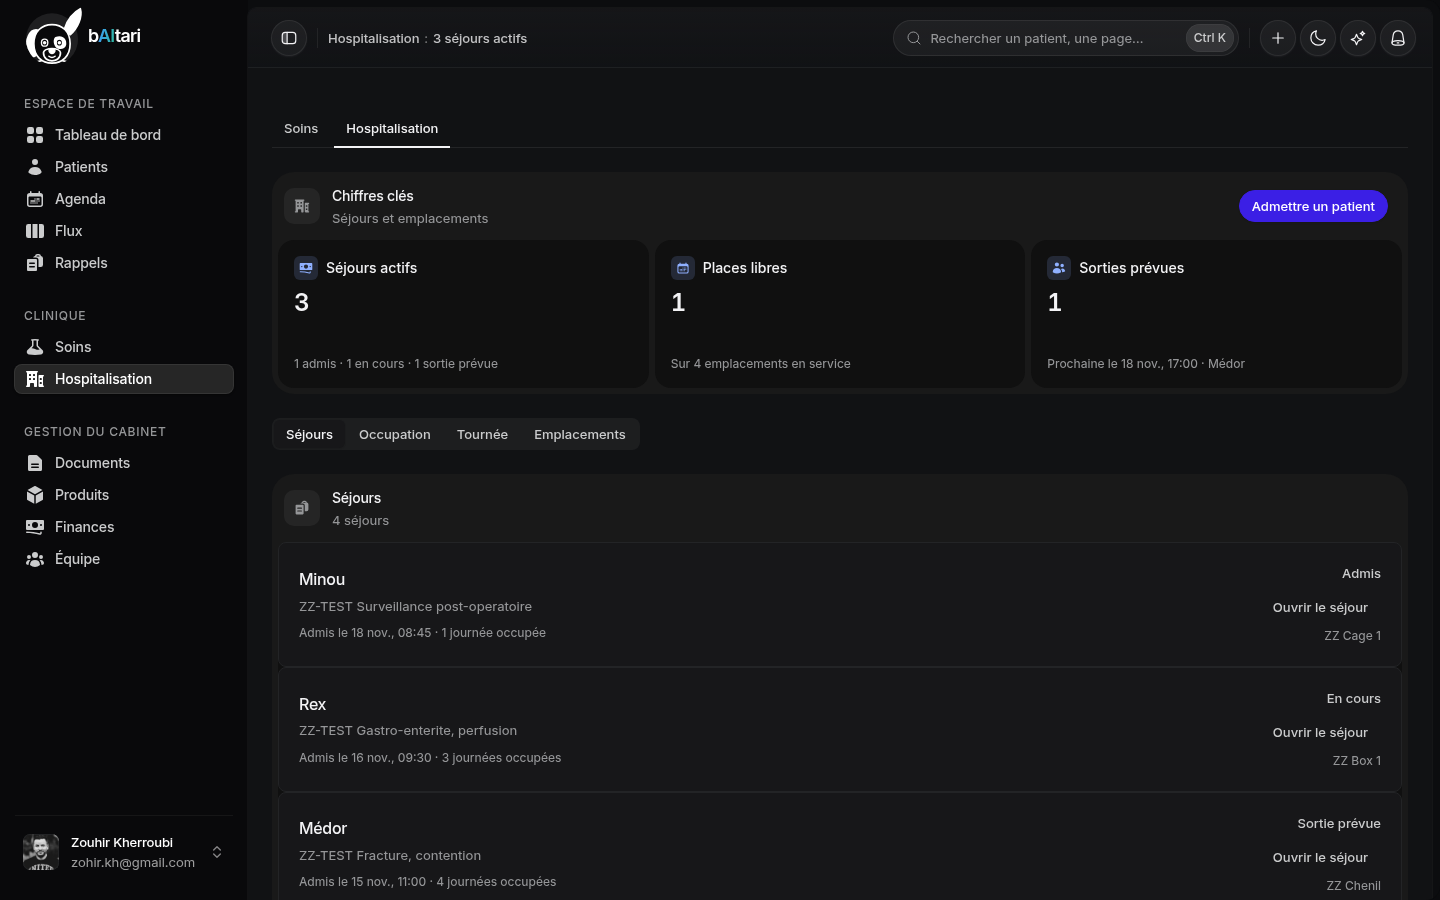
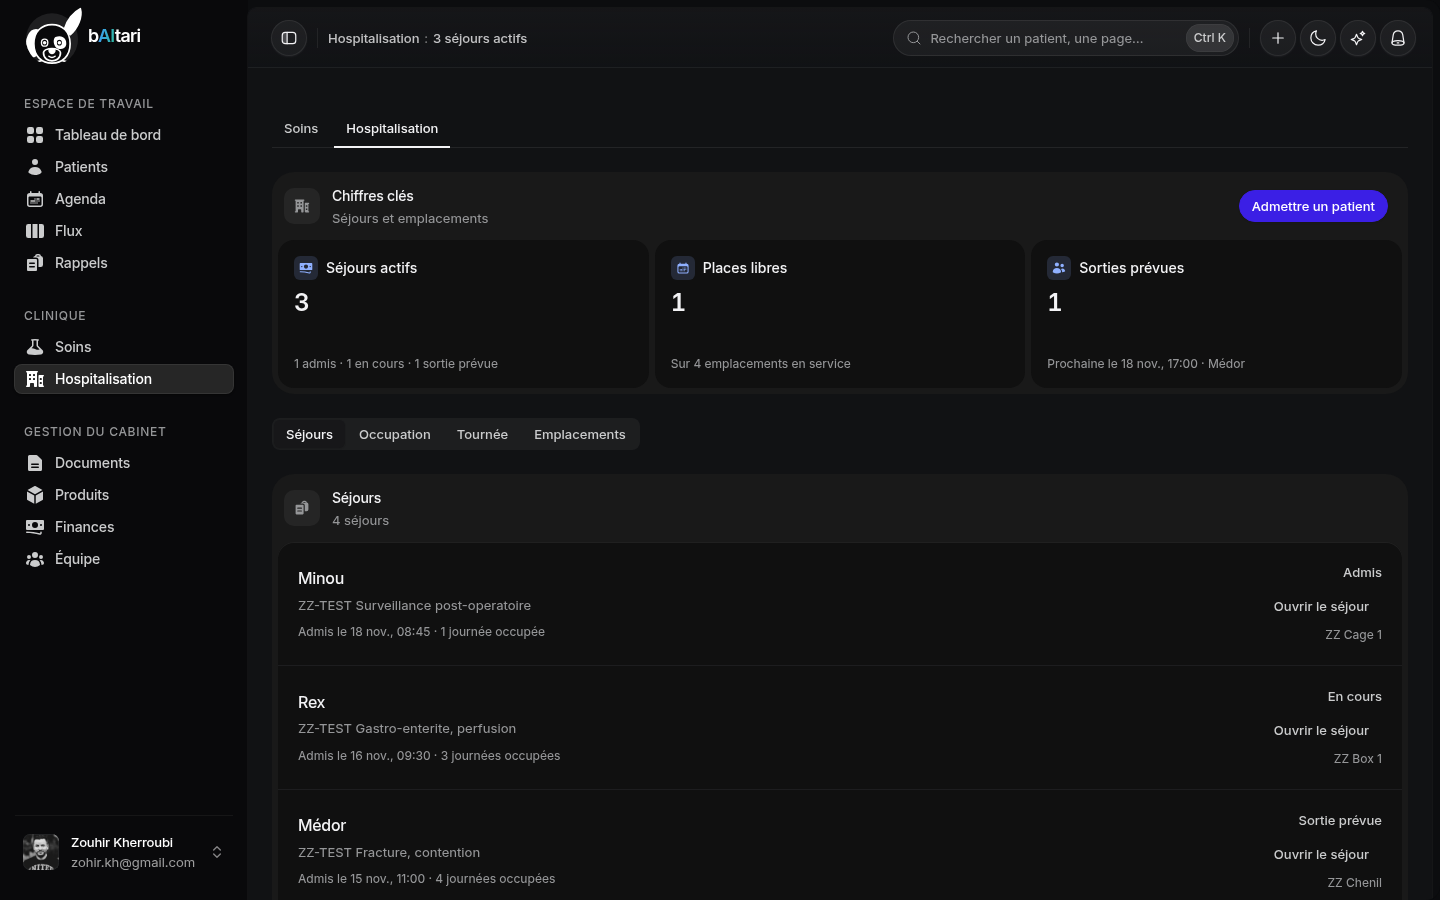
design(hospitalisation): retrait des cadres a trait de l'ancienne interface, bilan
Les regles Clean de premium-workspace.css qui encadraient d'un trait les cartes
de sejour et d'emplacement et chaque bloc du detail sont retirees : la vue est
en bandes grises et panneaux. Controles identiques avant/apres dans toutes les
vues et etats ; bilan, captures et outils du banc.

diff --git a/src/design-system/premium-workspace.css b/src/design-system/premium-workspace.css
@@ -300,32 +300,8 @@
     border-color: var(--line-strong) !important;
   }
 }
-:root[data-skin="clean"] :is(.stay-summary-card, .stay-location-card) {
-  padding: 20px !important;
-  border: 1px solid var(--line) !important;
-  border-radius: 8px !important;
-  background: var(--surface) !important;
-  box-shadow: none !important;
-}
-:root[data-skin="clean"] .stay-location-card > div:first-child {
-  padding-bottom: 16px;
-  box-shadow: var(--hair-b);
-}
-
-:root[data-skin="clean"] .stay-detail > :is(header, section) {
-  padding: 20px !important;
-  border: 1px solid var(--line) !important;
-  border-radius: 8px !important;
-  background: var(--surface) !important;
-}
-:root[data-skin="clean"] .stay-detail > header { background: var(--band) !important; }
-:root[data-skin="clean"] .stay-detail > section > :is(h3, div:first-child:has(h3)) {
-  margin: -20px -20px 20px;
-  padding: 16px 20px;
-  border-radius: 8px 8px 0 0;
-  background: var(--band);
-  box-shadow: var(--hair-b);
-}
+/* Hospitalisation : les cadres a trait de l ancienne interface (cartes de sejour et d emplacement, blocs du detail)
+   sont retires le 19 novembre ; la vue est en bandes grises et panneaux (stay-section.tsx). */
 @media (max-width: 639px) {
   :root[data-skin="clean"] .care-toolbar-controls { margin-left: 0; width: 100%; }
   :root[data-skin="clean"] .care-task-row { flex-wrap: wrap; }
@@ -336,12 +312,6 @@
   background: var(--band);
   box-shadow: var(--hair-t), var(--hair-b);
   margin-bottom: 0;
-}
-:root[data-skin="clean"] .stay-location-card > div:first-child {
-  margin: -20px -20px 0;
-  padding: 16px 20px;
-  background: var(--band);
-  border-radius: 8px 8px 0 0;
 }
 
 /* Selected consultation: keep the complete record in the same ruled frame. */

diff --git a/docs/recus/2026-11-19/hospitalisation/outils/sejours-essai.py b/docs/recus/2026-11-19/hospitalisation/outils/sejours-essai.py
@@ -1,0 +1,25 @@
+"""Fait une COPIE de la base du banc (jamais la vraie) avec des emplacements et des sejours ZZ-TEST pour regarder
+Hospitalisation avec du contenu. Heures de Paris, horloge du banc le 18 novembre 2026.
+Usage : python3 -I sejours-essai.py <base-test.db> <base-hospi.db>"""
+import shutil, sqlite3, sys
+src, dst = sys.argv[1], sys.argv[2]
+shutil.copyfile(src, dst)
+c = sqlite3.connect(dst)
+assert c.execute("select count(*) from stays").fetchone()[0] == 0, "la copie a deja des sejours"
+now = "2026-11-18T09:00:00.000Z"
+L = [("zz-l1", "ZZ Box 1", "box", "Chien"), ("zz-l2", "ZZ Box 2", "box", None), ("zz-l3", "ZZ Cage 1", "cage", "Chat"), ("zz-l4", "ZZ Chenil", "chenil", "Chien")]
+for i, n, t, s in L:
+    c.execute("insert into locations(id,name,type,species,active,note,created_at,updated_at) values(?,?,?,?,1,'',?,?)", (i, n, t, s, now, now))
+S = [  # id, patient, emplacement, statut, admis, sortie prevue, sorti, motif
+    ("zz-s1", "zz-p3", "zz-l1", "en_cours", "2026-11-16T08:30:00.000Z", None, None, "ZZ-TEST Gastro-enterite, perfusion"),
+    ("zz-s2", "zz-p4", "zz-l3", "admis", "2026-11-18T07:45:00.000Z", None, None, "ZZ-TEST Surveillance post-operatoire"),
+    ("zz-s3", "zz-p2", "zz-l4", "sortie_prevue", "2026-11-15T10:00:00.000Z", "2026-11-18T16:00:00.000Z", None, "ZZ-TEST Fracture, contention"),
+    ("zz-s4", "zz-p1", None, "sorti", "2026-11-10T09:00:00.000Z", None, "2026-11-12T11:00:00.000Z", "ZZ-TEST Deshydratation"),
+]
+for i, p, l, st, a, pd, d, r in S:
+    c.execute("insert into stays(id,patient_id,location_id,status,admitted_at,planned_discharge_at,discharged_at,reason,discharge_summary,author_id,created_at,updated_at) values(?,?,?,?,?,?,?,?,?,'zz-banc',?,?)", (i, p, l, st, a, pd, d, r, 'ZZ-TEST Rentre a la maison, bon etat' if st == 'sorti' else '', now, now))
+for k, (t, hr, rr, w) in enumerate([(39.4, 120, 28, 24.1), (39.0, 112, 26, 24.0), (38.6, 104, 24, 24.2)]):
+    c.execute("insert into vital_signs(id,stay_id,recorded_at,temperature_c,heart_rate,respiratory_rate,weight_kg,general_state,appetite,note,author_id,created_at,updated_at) values(?,?,?,?,?,?,?,'stable','faible','ZZ-TEST','zz-banc',?,?)",
+              (f"zz-v{k}", "zz-s1", f"2026-11-1{6+k}T09:00:00.000Z", t, hr, rr, w, now, now))
+c.commit()
+print(c.execute("select count(*) from stays").fetchone()[0], "sejours,", c.execute("select count(*) from locations").fetchone()[0], "emplacements")

diff --git a/docs/recus/2026-11-19/hospitalisation/BILAN.md b/docs/recus/2026-11-19/hospitalisation/BILAN.md
@@ -1,0 +1,70 @@
+# Hospitalisation au standard des autres vues, 19 novembre 2026
+
+**La branche :** `chantier/lot-hospitalisation-widgets-2026-11-19`, dans `~/work/lot-wt`, partie de master `0226fdc`.
+- Commits locaux, rien n'est poussé, fusionné ni tagué.
+- La partie « premières rangées de widgets » du lot a son propre bilan (`../premieres-rangees/`).
+
+**La demande :** Hospitalisation, dernière vue restée sur l'ancienne interface, passe au standard actuel. **C'est de la présentation seulement.**
+
+## 1. Avant
+
+Captures dans `hospi-avant/`, en clair et en sombre, pour les quatre vues et le détail d'un séjour.
+- **Cartes et blocs :** des cadres blancs cerclés d'un trait (`border-[#F2F2F2]`, plus des règles Clean dans `premium-workspace.css` qui ajoutaient une bordure de 1 px et des filets sous les en-têtes).
+- **Ni bande grise ni bande « Chiffres clés ».**
+- **L'action principale :** posée à côté des onglets.
+
+## 2. Ce qui change
+
+- **La bande « Chiffres clés » en tête,** comme dans Soins et sur les autres pages, avec trois cartes :
+  - **Séjours actifs :** le détail admis, en cours et sorties prévues ;
+  - **Places libres :** sur les emplacements en service ;
+  - **Sorties prévues :** avec la prochaine (date, heure, patient).
+  - Elles sont calculées à partir des séjours et des emplacements que la page lit déjà, sans nouvelle lecture.
+- **L'action principale de la vue :** « Admettre un patient », ou « Créer un emplacement » dans la vue Emplacements, passe dans la bande, en pilule. C'est le même bouton, avec le même gestionnaire.
+- **Les quatre vues** (Séjours, Occupation, Tournée, Emplacements) gardent leurs onglets segmentés.
+- **Le contenu de chaque vue** est dans une bande grise avec son en-tête (icône Heroicons 20 pleine, titre, quelques mots) :
+  - **Séjours :** les séjours forment un panneau blanc à lignes séparées ;
+  - **Emplacements et Tournée :** les cartes sont posées sur la bande, sans trait ;
+  - **Occupation :** l'occupation tient dans un panneau. Sa version compacte du Tableau de bord ne change pas.
+- **Tournée :** la carte choisie se distingue par une teinte d'accent sur son fond, au lieu d'un trait de couleur. Son bouton « Soins et constantes » reste plein, comme avant.
+- **Le détail d'un séjour :**
+  - **l'en-tête** (patient, motif, journées) et chaque bloc deviennent une bande grise avec en-tête et panneau : Emplacement, Parcours du séjour, Constantes, Plans de soins, Soins du séjour, Historique, Contrôle à la sortie, Facturation ;
+  - **« Ajouter un relevé »** passe à droite de l'en-tête Constantes ;
+  - **les cadres des courbes** perdent leur trait au profit d'un fond léger.
+- **Les pièces :**
+  - **une brique :** `stay-section.tsx`, faite des composants existants `Shell`, `ShellHeader` et `Panel` ;
+  - **le code de la page :** `stays-page.tsx` est réécrit lisiblement, avec les mêmes états, gestionnaires, textes et dialogues ;
+  - **les règles retirées :** les règles Clean de l'ancienne interface (`premium-workspace.css`), qui ne visaient que ces cartes et ces blocs.
+
+**À valider, parce que c'est ajouté et pas seulement déplacé :**
+- la bande « Chiffres clés » et ses trois chiffres ;
+- la place de la pilule ;
+- la teinte de sélection dans la Tournée.
+
+## 3. Les preuves
+
+**Le banc :** l'application assemblée, avec une copie de la base du banc à laquelle on ajoute :
+- quatre emplacements `ZZ-TEST` ;
+- quatre séjours `ZZ-TEST` (admis, en cours, sortie prévue, sorti) ;
+- trois relevés de constantes.
+
+L'outil est `outils/sejours-essai.py`. Les lectures SQLite natives passent par cette copie, en lecture seule (`outils/banc.mjs`).
+
+- **Aucun comportement modifié** (`controles-avant.json` et `controles-apres.json`, outil `outils/hospi-controles.mjs`). Tous les contrôles interactifs (boutons, champs, listes, onglets), avec leur libellé et leur état actif ou inactif, sont **identiques avant et après** :
+  - dans les quatre vues ;
+  - dans la Tournée avec un patient choisi ;
+  - dans les quatre états du détail (admis, en cours, sortie prévue, sorti) ;
+  - dans le dialogue d'admission.
+  - Aucune erreur de console.
+- **La finition** (`outils/hospi-mesure.mjs`), en clair et en sombre :
+  - toutes les bandes font 22 px, sans bordure ni ombre ;
+  - tous les panneaux font 16 px, sans bordure ;
+  - plus aucun élément à trait hors des séparateurs de lignes (annulation du séjour, relevés) et des infobulles de graphique.
+- **Les captures** sont dans `hospi-apres/`, en clair et en sombre.
+- **Les contrôles :** typecheck 0, lint `--max-warnings=0` 0, **2 120 tests verts**.
+
+## 4. Ce qui n'est pas prouvé ou reste ouvert
+
+- **Les panneaux hors première rangée** (la liste, les emplacements, les blocs du détail) portent l'ombre générale des panneaux Clean du 13 novembre, comme ceux des autres vues. Le retrait de cette ombre partout est la décision en attente du bilan des premières rangées.
+- **Les données réelles d'hospitalisation ne sont pas vues :** la copie de la base n'en a pas, d'où les cas `ZZ-TEST`. Les dialogues de plan de soins, de relevé et de transfert n'ont été ouverts que pour l'admission.
+- **L'app de bureau n'a pas été vue,** et les thèmes autres que Clean non plus.
